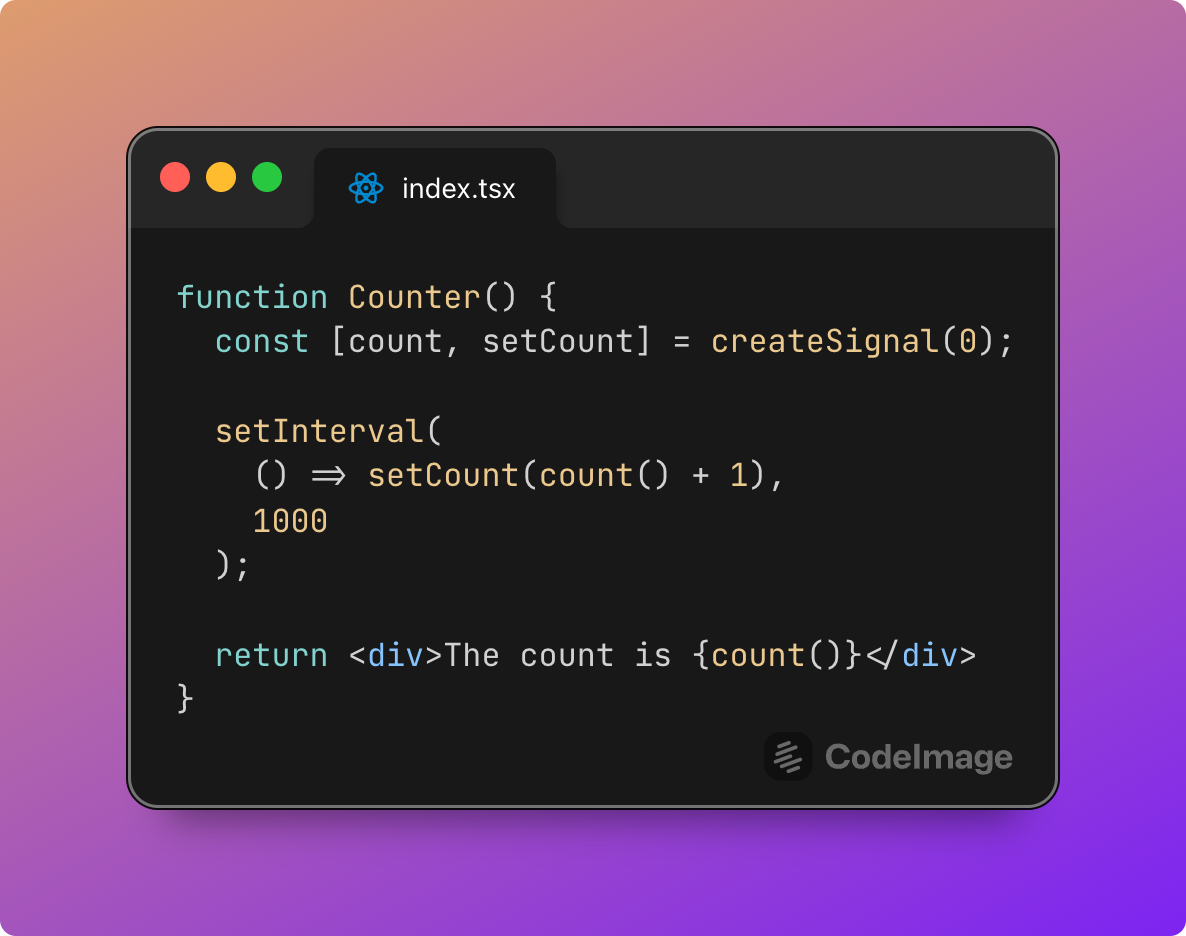
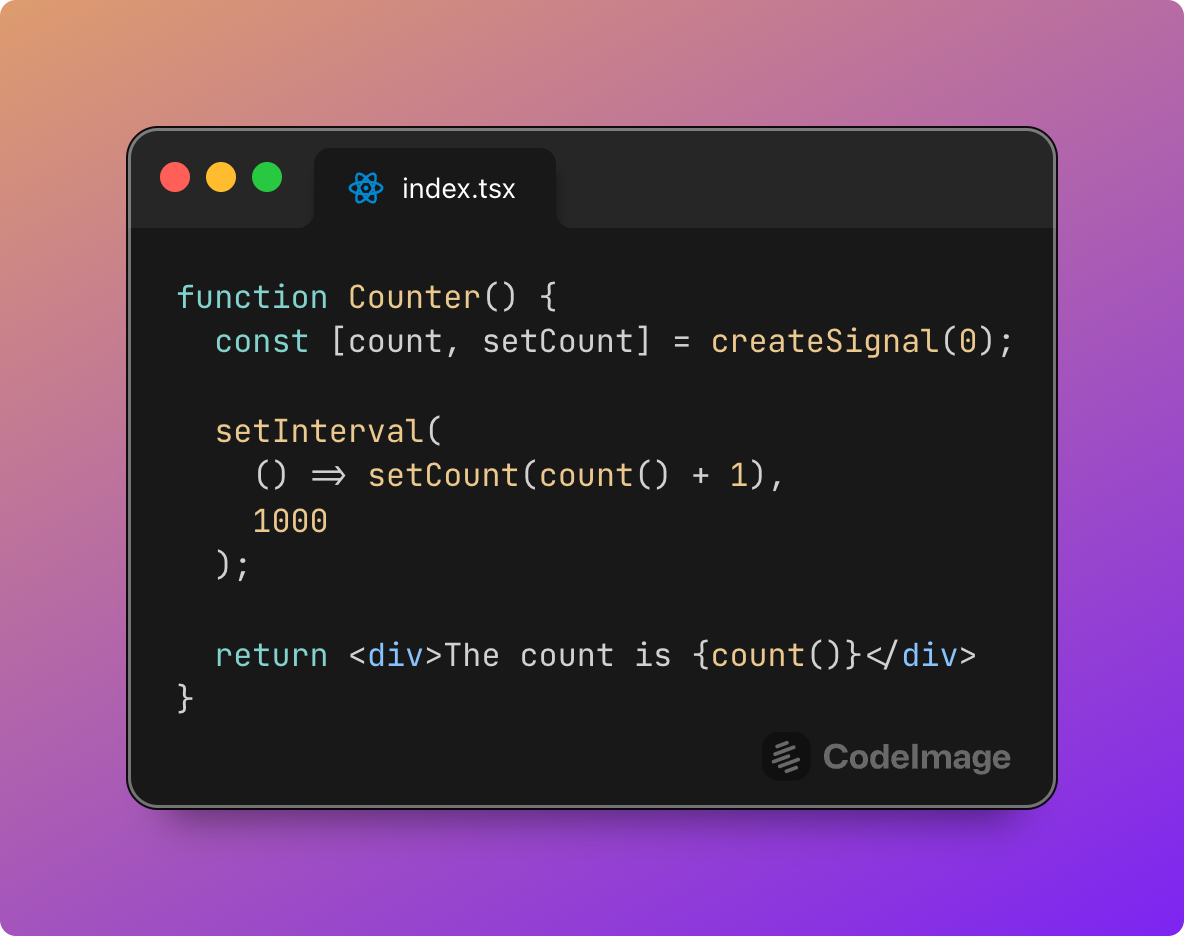
test(app): compare Takumi against Chrome at a native scale factor
With only an emulated deviceScaleFactor, Chrome lays out in CSS pixels
and snaps every text baseline to a whole CSS pixel. A Retina display
lays out in device pixels, as Takumi does. Launch Chromium with
--force-device-scale-factor=2 so the reference matches what users see,
and regenerate the trunk baseline under the same reference.

Gate the 300-line lane at 0.5% against Chrome, with and without line
numbers, and fail when an export font does not load.

diff --git a/scripts/parity/rasterizers.ts b/scripts/parity/rasterizers.ts
@@ -18,7 +18,12 @@ async function main() {
       'Library/Caches/ms-playwright/chromium-1200/chrome-mac-arm64/Google Chrome for Testing.app/Contents/MacOS/Google Chrome for Testing',
     );
   mkdirSync(out, {recursive: true});
-  const browser = await chromium.launch({executablePath});
+  // Emulated deviceScaleFactor alone lays out in CSS pixels and snaps text
+  // baselines to whole CSS pixels. A native factor matches a Retina display.
+  const browser = await chromium.launch({
+    executablePath,
+    args: ['--force-device-scale-factor=2'],
+  });
   const context = await browser.newContext({
     viewport: {width: 1440, height: 1000},
     deviceScaleFactor: 2,
@@ -33,9 +38,20 @@ async function main() {
     errors.push(error.stack ?? error.message);
     console.error(error.stack ?? error.message);
   });
+  const fontIssues: string[] = [];
   page.on('console', message => {
     if (message.text().includes('Takumi export failed'))
       fallback.push(message.text());
+    if (message.text().includes('Export font unavailable'))
+      fontIssues.push(message.text());
+  });
+  page.on('requestfailed', request => {
+    const failure = request.failure()?.errorText ?? '';
+    if (
+      /\.(woff2?|ttf|otf)\b|fonts\.googleapis/.test(request.url()) &&
+      !failure.includes('ERR_ABORTED')
+    )
+      fontIssues.push(`${request.url()} ${failure}`);
   });
   page.on('request', request => {
     if (request.url().includes('.wasm')) wasmRequests.push(request.url());
@@ -230,7 +246,7 @@ async function main() {
           ...bounds,
           width: Math.round(bounds.width),
           height: Math.round(bounds.height),
-          scale: 2,
+          scale: 1,
         },
       });
       const png = Buffer.from(data, 'base64');
@@ -284,6 +300,18 @@ async function main() {
     const panel = page.locator(popoverSelector).filter({has: title});
     await panel.locator(radioSelector).nth(index).click();
     await page.keyboard.press('Escape');
+  }
+
+  async function setLineNumbers(show: boolean) {
+    const row = page
+      .getByText('Line number', {exact: true})
+      .locator('xpath=ancestor::*[.//*[normalize-space(text())="Show"]][1]');
+    await row.getByText(show ? 'Show' : 'Hide', {exact: true}).click();
+    await page.waitForFunction(
+      ({show, wrapperSelector}) =>
+        !!document.querySelector(wrapperSelector + ' .cm-lineNumbers') === show,
+      {show, wrapperSelector},
+    );
   }
 
   async function setCode(code: string, target: Page = page) {
@@ -479,7 +507,16 @@ async function main() {
       assert.equal(docLines, 300);
       assert.equal(chrome.width, diff.width);
       assert.equal(chrome.height, diff.height);
-      return {domExport: diff, chromeInformational: chrome, docLines};
+      assert.ok(chrome.percent <= 0.5, JSON.stringify(chrome));
+      await setLineNumbers(true);
+      const numbered = compare(
+        (await render('takumi', 'p2-long-numbers')).data,
+        await reference('p2-long-numbers-chrome'),
+        'long-numbers-on-chrome',
+      );
+      await setLineNumbers(false);
+      assert.ok(numbered.percent <= 0.5, JSON.stringify(numbered));
+      return {domExport: diff, chrome, numbered, docLines};
     });
     await lane(5, async () => {
       await setCode(originalCode);
@@ -770,7 +807,9 @@ async function main() {
       offVsChrome: compare(off.data, chrome, 'default-off-chrome'),
       onVsOff: compare(on.data, off.data, 'default-on-off'),
     };
-    console.log(JSON.stringify({initial, fallback, errors, wasmRequests}));
+    console.log(
+      JSON.stringify({initial, fallback, fontIssues, errors, wasmRequests}),
+    );
     if (!quick) {
       const themes = await page
         .locator(themeSelector + '[data-selected]')
@@ -808,11 +847,16 @@ async function main() {
     }
     writeFileSync(
       path.join(out, 'parity.json'),
-      JSON.stringify({initial, rows, errors, fallback, wasmRequests}, null, 2),
+      JSON.stringify(
+        {initial, rows, errors, fallback, fontIssues, wasmRequests},
+        null,
+        2,
+      ),
     );
     console.table(rows);
     if (process.env.P2_LIVE === '1') await runLive();
     assert.equal(fallback.length, 0, 'Takumi fell back during parity.');
+    assert.deepEqual(fontIssues, [], 'An export font did not load.');
     assert.ok(
       initial.onVsChrome.percent <= 0.5,
       'Default Takumi exceeds 0.5% from Chrome.',
@@ -825,7 +869,7 @@ async function main() {
     writeFileSync(workerPath, originalWorker);
     writeFileSync(
       path.join(out, 'diagnostics.json'),
-      JSON.stringify({errors, fallback, wasmRequests}, null, 2),
+      JSON.stringify({errors, fallback, fontIssues, wasmRequests}, null, 2),
     );
     await page
       .screenshot({path: path.join(out, 'p2-final-ui.png')})
